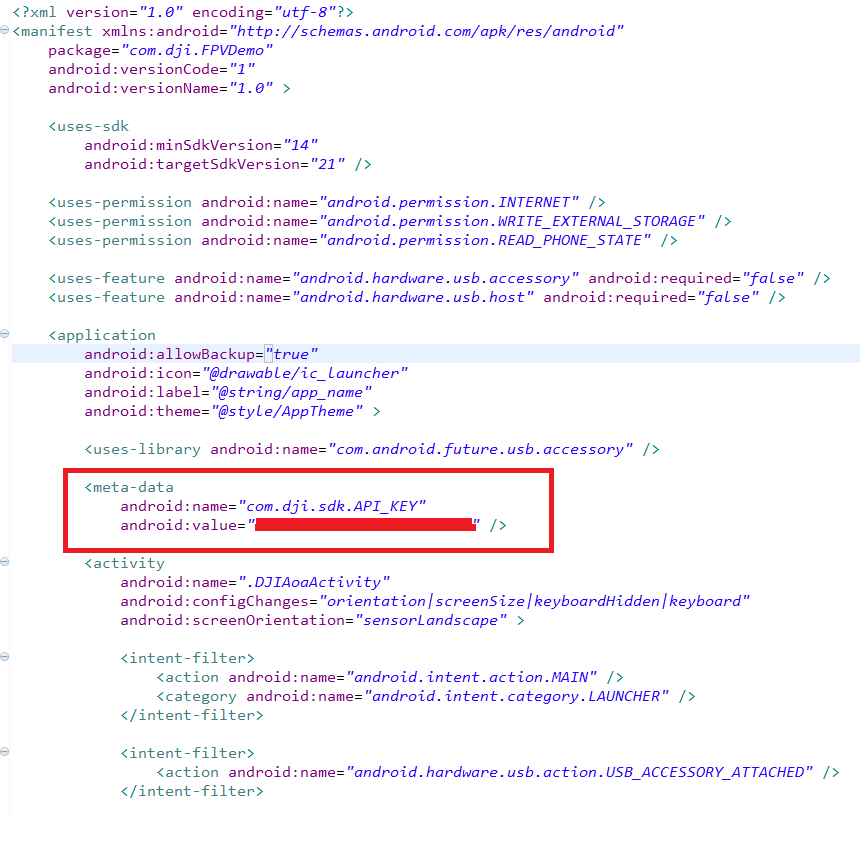
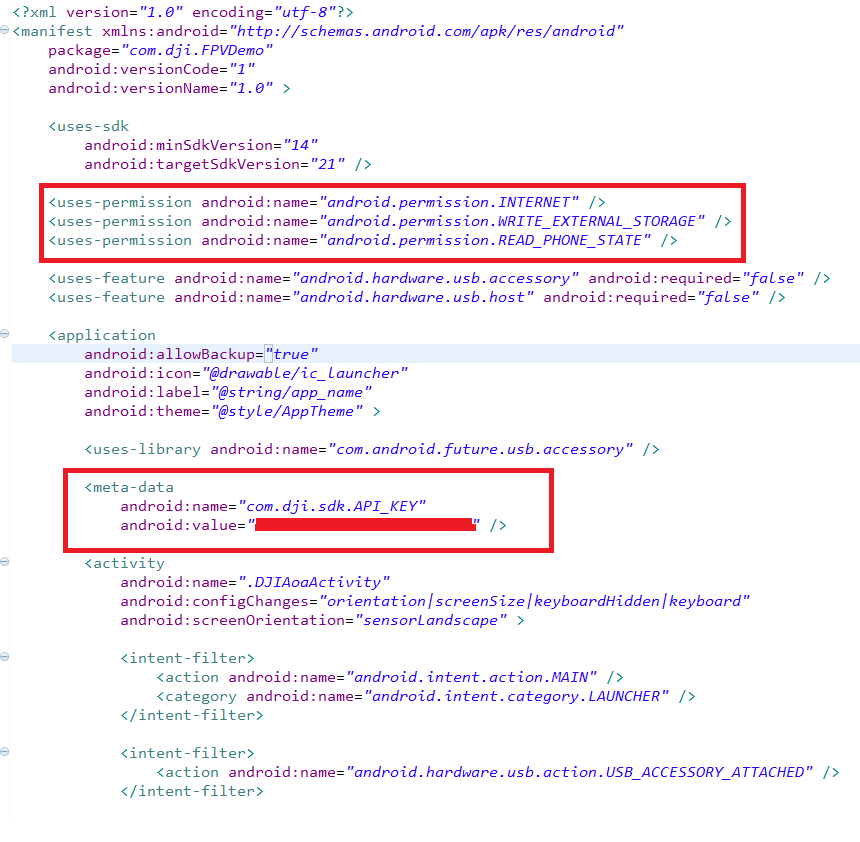
Added instruction to add three lines of permission code necessary for connecting to the internet through the device. Altered image 1_appKeyMetaData.png to illustrate the process.

Changed region(s): [[0.0302, 0.2162, 0.8767, 0.3088], [0.0605, 0.3088, 0.8465, 0.3397]]

diff --git a/Android-FPVDemo/en/FPVDemo/Part1/FPVDemo_Part1_en.md b/Android-FPVDemo/en/FPVDemo/Part1/FPVDemo_Part1_en.md
@@ -54,7 +54,7 @@ Next, right click on the 'app' module in the file directory to the left, and cli
 
 (2) Activate the SDK: 
 
-Copy the highlighted meta-data elements into your **AndroidManifest.xml** file for activation.
+Copy both the 'uses-permission' lines of code and the highlighted meta-data element into your **AndroidManifest.xml** file for activation, as shown below.  
 
 ![appKeyMetaData](https://github.com/dji-sdk/Mobile-SDK-Tutorial/raw/master/Android-FPVDemo/en/images/1_appKeyMetaData.png)
 
@@ -98,7 +98,7 @@ Run your project code on an Android device or Android emulator to complete the a
 
 Check the 'LogCat' panel at the bottom of your coding environment window for a return message.
 
-![logcat](https://raw.githubusercontent.com/alexanderwangus/Mobile-SDK-Tutorial/master/Android-FPVDemo/en/images/logcatScreenshot.png)
+![logcat](https://github.com/dji-sdk/Mobile-SDK-Tutorial/raw/master/Android-FPVDemo/en/images/logcatScreenshot.png)
 
 Check the error code against the table below:
 
